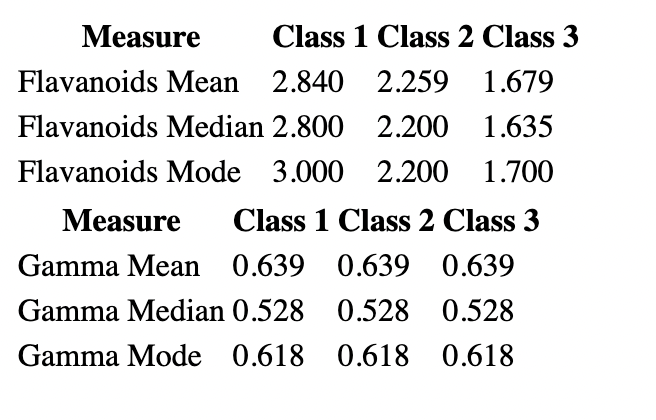
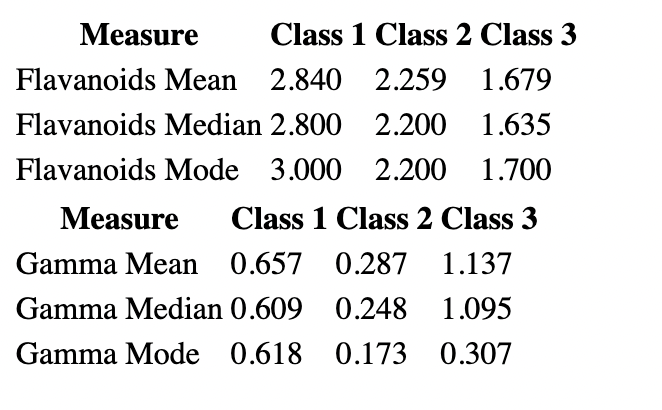
updated code for table 2 (gamma) bug and updated screenshot for output

diff --git a/src/utils/Utils.js b/src/utils/Utils.js
@@ -36,11 +36,7 @@ export const calculateMode = (values) => {
 };
 
 // Function to calculate class-wise statistics (Mean, Median, Mode)
-export const calculateClassWiseStats = (
-  data,
-  property,
-  additionalValues = null
-) => {
+export const calculateClassWiseStats = (data, property) => {
   // Extracting unique class labels from the dataset
   const classes = Array.from(new Set(data.map((entry) => entry.Alcohol)));
   const stats = {};
@@ -49,9 +45,7 @@ export const calculateClassWiseStats = (
     const classData = data.filter((entry) => entry.Alcohol === cls);
 
     // Using additionalValues if provided, otherwise extracting property values
-    const values = additionalValues
-      ? additionalValues
-      : classData.map((entry) => entry[property]);
+    const values = classData.map((entry) => entry[property]);
 
     // Calculating Mean, Median, and Mode for the current class
     stats[cls] = {
@@ -65,9 +59,11 @@ export const calculateClassWiseStats = (
 
 // Function to calculate class-wise statistics for the "Gamma" property
 export const calculateGamma = (data) => {
-  const gammaValues = data.map(
-    (entry) => (entry.Ash * entry.Hue) / entry.Magnesium
-  );
+  const updatedData = data.map((entry) => ({
+    ...entry,
+    Gamma: (entry.Ash * entry.Hue) / entry.Magnesium,
+  }));
+
   // Using calculateClassWiseStats to calculate statistics for "Gamma"
-  return calculateClassWiseStats(data, "Gamma", gammaValues);
+  return calculateClassWiseStats(updatedData, "Gamma");
 };
